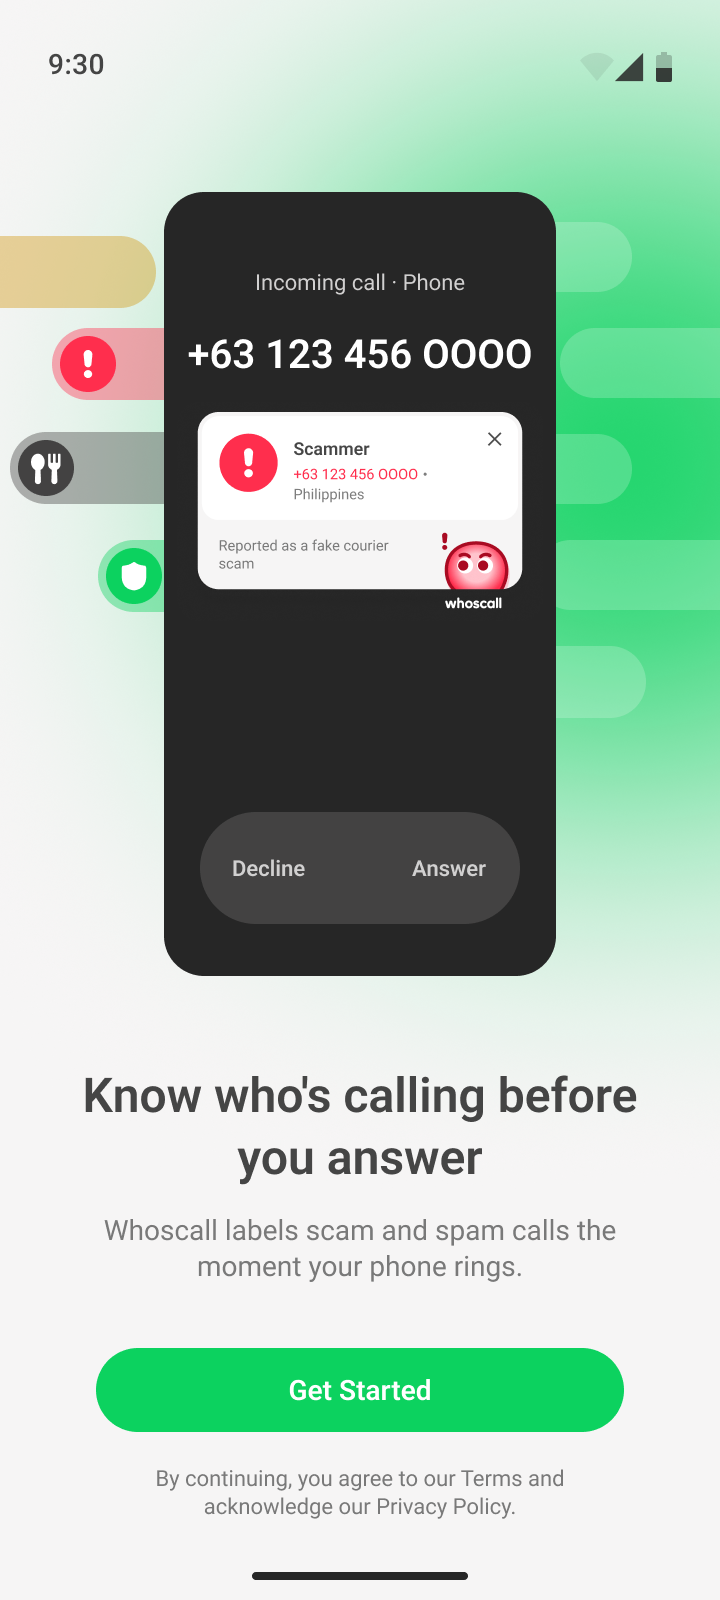
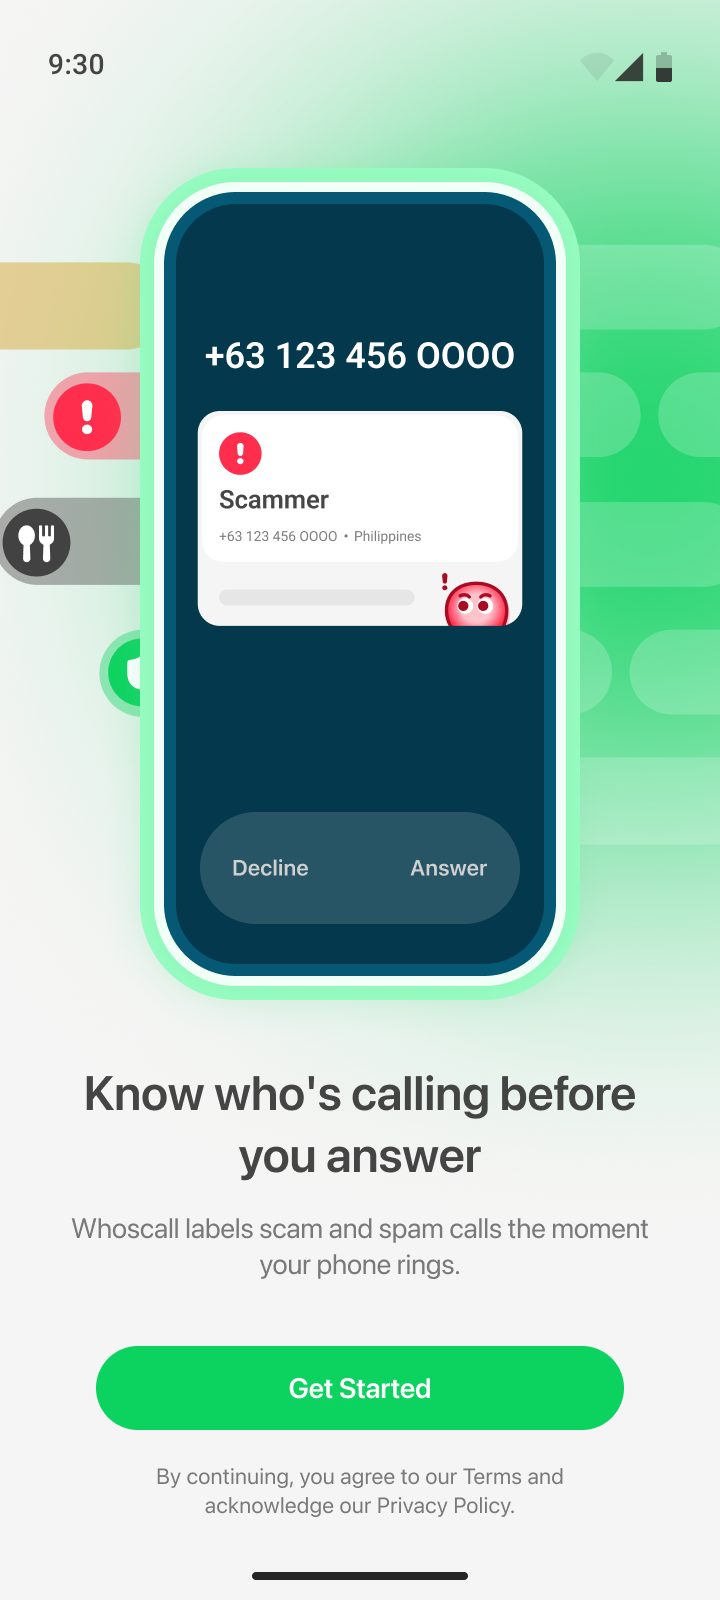
V1 C1: teal phone, vibrate instead of Searching, new Scammer dialog, in-call and home result screens

diff --git a/index.html b/index.html
@@ -82,6 +82,15 @@ h1{font-size:24px;line-height:31px;font-weight:600;margin:0;text-wrap:balance}
 .screen{width:360px;height:800px;transform-origin:0 0;position:absolute;left:0;top:0;overflow:hidden}
 .layer{position:absolute;inset:0;background-size:360px 800px;background-repeat:no-repeat}
 /* ---------- V1: everything inside the phone screen (Figma x88 y102 w184 h380) ---------- */
+.v1 .phw{position:absolute;inset:0;pointer-events:none}
+.v1 .phw .clip{pointer-events:auto}
+/* C1 (no Searching beat): the phone + screen layer vibrates while ringing */
+.v1.nosearch .clip{border-radius:30px}
+.v1.nosearch .pulse{top:103px}
+@keyframes ringT{0%{box-shadow:0 0 0 0 rgba(255,255,255,.28)}100%{box-shadow:0 0 0 16px rgba(255,255,255,0)}}
+.v1.nosearch.s1 .pulse{animation-name:ringT}
+.v1.nosearch.s1 .phw{animation:buzz 1.5s linear both;transform-origin:50% 36%}
+@keyframes buzz{0%,8%,46%,54%,100%{transform:none}10%,18%,26%,34%,56%,64%,72%,80%{transform:translateX(-2px) rotate(-1.2deg)}14%,22%,30%,38%,60%,68%,76%,84%{transform:translateX(2px) rotate(1.2deg)}42%,88%{transform:none}}
 .v1 .clip{position:absolute;left:88px;top:102px;width:184px;height:380px;border-radius:20px;overflow:hidden}
 .v1 .crop{position:absolute;background-size:360px 800px;background-repeat:no-repeat;pointer-events:none}
 .v1 .cd{left:0;top:94px;width:184px;height:122px;background-position:-88px -196px}
@@ -280,7 +289,8 @@ html.pvon,html.pvon body{overflow:hidden}
 
 <script>
 const A='prototype_assets/';
-const VER='?v=20261106f';
+const VER='?v=20261112b';
+const NOSEARCH=new Set(['c1']); // candidates that skip the Searching beat (phone vibrates instead)
 const BEATS=['Ringing','Searching','Identified','Declined','Answered'];
 const screens=[...document.querySelectorAll('.screen')];
 const reduce=window.matchMedia&&matchMedia('(prefers-reduced-motion: reduce)').matches;
@@ -290,19 +300,22 @@ const CENTER=68, MINX=16, MAXX=120, TRIG=36;           // handle left (px) insid
 const T_S2=1500, T_S3=2700, AUTO=4500;
 const ctrls=screens.map(el=>({el,timers:[],state:'s1',extra:'',choice:'dec',busy:false}));
 function renderV1(el){const c=el.dataset.c; const ctl=ctrls.find(x=>x.el===el);
-  el.innerHTML=`<div class="layer" style="${bg(c,'v1_C_b1.png')}" role="img" aria-label="${c.toUpperCase()} incoming call"></div>
+  const ns=NOSEARCH.has(c); // C1: new teal phone (separate layer so it can vibrate), no Searching beat, result screens baked in
+  el.innerHTML=`<div class="layer" style="${bg(c,ns?'v1_C_bg.png':'v1_C_b1.png')}" role="img" aria-label="${c.toUpperCase()} incoming call"></div>
+  <div class="phw">${ns?`<div class="layer" style="${bg(c,'v1_C_phone.png')}"></div>`:''}
   <div class="clip"><i class="pulse"></i>
-    <div class="crop cd c2" style="${bg(c,'v1_C_b2.png')}"></div>
+    ${ns?'':`<div class="crop cd c2" style="${bg(c,'v1_C_b2.png')}"></div>`}
     <div class="crop cd c3" style="${bg(c,'v1_C_b3.png')}"></div>
     <i class="flood"></i>
-    <div class="crop full c4d" style="${bg(c,'v1_C_b4d_clean.png')}"><div class="b4"><p class="num">+63 123 456 0000</p><span class="rtag">Call declined</span></div></div>
-    <div class="crop full c4a" style="${bg(c,'v1_C_b4a_clean.png')}"><div class="b4"><p class="num">+63 123 456 0000</p><span class="rtag">Identified: Scammer</span></div></div>
+    <div class="crop full c4d" style="${bg(c,'v1_C_b4d_clean.png')}">${ns?'':'<div class="b4"><p class="num">+63 123 456 0000</p><span class="rtag">Call declined</span></div>'}</div>
+    <div class="crop full c4a" style="${bg(c,'v1_C_b4a_clean.png')}">${ns?'':'<div class="b4"><p class="num">+63 123 456 0000</p><span class="rtag">Identified: Scammer</span></div>'}</div>
     <button type="button" class="handle" aria-label="Swipe handle: left arrow to Decline, right arrow to Answer" style="background-image:url(${A}v1_handle.png${VER})"></button>
-  </div>
+  </div></div>
   <div class="vee" aria-live="polite"><p class="bub"><span class="bd">You avoided a high-risk call!</span><span class="ba">Now you know who's calling you!</span></p><img src="${A}vee.svg${VER}" alt=""></div>`;
   ctl.handle=el.querySelector('.handle'); ctl.flood=el.querySelector('.flood');
   setHandle(ctl,CENTER); setState(ctl,'s1',{anim:false}); bindDrag(ctl);}
-function setState(c,st,{anim=true,extra=''}={}){ c.state=st; c.extra=extra; c.el.className='screen v1 '+st+(anim&&!reduce?' anim':'')+(extra?' '+extra:''); }
+function setState(c,st,{anim=true,extra=''}={}){ const ns=NOSEARCH.has(c.el.dataset.c); if(ns&&st==='s2') st='s3';
+  c.state=st; c.extra=extra; c.el.className='screen v1 '+st+(ns?' nosearch':'')+(anim&&!reduce?' anim':'')+(extra?' '+extra:''); }
 function clr(c){ c.timers.forEach(clearTimeout); c.timers=[]; }
 const at=(c,ms,fn)=>c.timers.push(setTimeout(fn,ms));
 function setHandle(c,x,mode){ const h=c.handle; h.classList.remove('spring','slide'); if(mode&&!reduce){ void h.offsetWidth; h.classList.add(mode); } h.style.left=x+'px'; c.hx=x; }
@@ -310,6 +323,7 @@ function markStep(i){ stepBtns.forEach((b,j)=>b.classList.toggle('on',j===i)); }
 function schedule(c,from){ // continue the story from a beat
   clr(c); if(!playing||ver!=='v1') return;
   if(from<=1){ setState(c,'s1',{anim:from===1}); markStep(0); at(c,T_S2,()=>schedule(c,2)); return; }
+  if(from===2&&NOSEARCH.has(c.el.dataset.c)){ schedule(c,3); return; }
   if(from===2){ setState(c,'s2'); markStep(1); at(c,T_S3-T_S2,()=>schedule(c,3)); return; }
   setState(c,'s3',{extra:'wait'}); markStep(2);
   at(c,AUTO,()=>{ setHandle(c,MINX,'slide'); at(c,560,()=>choose(c,'dec',false)); });
@@ -454,7 +468,7 @@ function onHash(){ if(suppressHash){ suppressHash=false; syncHash(false); return
   if(r.v!==ver) setVer(r.v); }
 window.addEventListener('hashchange',onHash); window.addEventListener('popstate',onHash);
 new Image().src=`${A}v1_handle.png${VER}`;
-['c1','c2'].forEach(c=>{['b1','b2','b3','b4d_clean','b4a_clean'].forEach(b=>{new Image().src=`${A}v1_${c}_${b}.png${VER}`;});['before','after','before_glow','after_glow'].forEach(s=>{new Image().src=`${A}v2_${c}_${s}.png${VER}`;});});
+['c1','c2'].forEach(c=>{(NOSEARCH.has(c)?['bg','phone','b3','b4d_clean','b4a_clean']:['b1','b2','b3','b4d_clean','b4a_clean']).forEach(b=>{new Image().src=`${A}v1_${c}_${b}.png${VER}`;});['before','after','before_glow','after_glow'].forEach(s=>{new Image().src=`${A}v2_${c}_${s}.png${VER}`;});});
 { const r=parseHash(); if(r.pv) openPv(r.v,r.c,{push:false,fs:false}); else setVer(r.v); }
 </script>
 </html>
